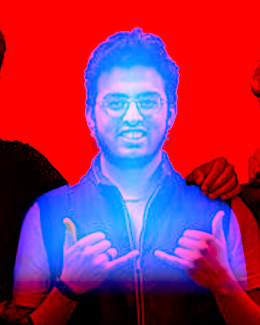
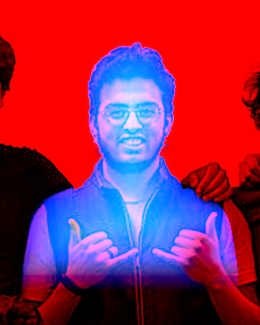
About above Experience, centred timeline dates, floating Ask button and hologram fixes
- Page order now matches the navbar: Home, About, Experience, Projects, Contact
- Experience: each date sits across the line at the vertical middle of its
  card (measured, so it stays put as cards wrap); dots centred on the rail;
  bullet link uses the accent colour
- "Ask AI about me": portalled to <body> so it pins to the screen (the hero's
  transform was pinning it to the hero); shown only after scrolling past the
  assistant, hidden at Contact
- Hologram: visible frame centred on the page; back pane is an even 10px
  stacked offset; portraits re-framed with headroom below the header

diff --git a/frontend/src/components/FloatingAsk.jsx b/frontend/src/components/FloatingAsk.jsx
@@ -1,17 +1,38 @@
 import { useEffect, useState } from "react";
+import { createPortal } from "react-dom";
 
-// Bottom-right shortcut back to the assistant. Shown only while the hero's
-// assistant is scrolled out of view; a click scrolls to it and focuses the input.
+// Bottom-right shortcut back to the assistant.
+// - Rendered into <body> through a portal: the hero has a transform, which
+//   would otherwise pin this "fixed" button to the hero instead of the screen.
+// - Shown only once the visitor has scrolled past the hero's assistant, and
+//   hidden again at the Contact section (it would cover the message bubble).
 export default function FloatingAsk() {
-  const [visible, setVisible] = useState(false);
+  const [pastAssistant, setPastAssistant] = useState(false);
+  const [atContact, setAtContact] = useState(false);
 
   useEffect(() => {
-    const target = document.querySelector(".hero-assistant");
-    if (!target) return;
-    const io = new IntersectionObserver(([e]) => setVisible(!e.isIntersecting), { threshold: 0 });
-    io.observe(target);
-    return () => io.disconnect();
+    const assistant = document.querySelector(".hero-assistant");
+    const contact = document.querySelector("#contacts");
+    const observers = [];
+    if (assistant) {
+      const io = new IntersectionObserver(([e]) => {
+        // Out of view *because we scrolled below it* (its top is above the screen).
+        setPastAssistant(!e.isIntersecting && e.boundingClientRect.top < 0);
+      });
+      io.observe(assistant);
+      observers.push(io);
+    }
+    if (contact) {
+      const io = new IntersectionObserver(([e]) => setAtContact(e.isIntersecting), {
+        rootMargin: "0px 0px -25% 0px", // hide once Contact is properly on screen
+      });
+      io.observe(contact);
+      observers.push(io);
+    }
+    return () => observers.forEach((io) => io.disconnect());
   }, []);
+
+  const visible = pastAssistant && !atContact;
 
   const goToAssistant = () => {
     const box = document.querySelector(".hero-assistant");
@@ -22,7 +43,7 @@ export default function FloatingAsk() {
     setTimeout(() => input?.focus({ preventScroll: true }), reduced ? 0 : 450);
   };
 
-  return (
+  return createPortal(
     <button
       type="button"
       className={`floating-ask${visible ? " is-visible" : ""}`}
@@ -34,6 +55,7 @@ export default function FloatingAsk() {
         <path d="M7.9 20A9 9 0 1 0 4 16.1L2 22Z" />
       </svg>
       Ask AI about me
-    </button>
+    </button>,
+    document.body,
   );
 }

diff --git a/frontend/src/components/StyleSheet.css b/frontend/src/components/StyleSheet.css
@@ -2058,3 +2058,74 @@
 @media (prefers-reduced-motion: reduce) {
   .message-dialog[open] .message-pane { animation: none; }
 }
+
+/* ── Experience: date on the open side of the timeline, at the middle of its card ── */
+.timeline-date {
+  display: none;
+}
+@media (min-width: 769px) {
+  /* --card-mid is set in Experience.jsx: the vertical middle of the card */
+  .timeline-item .timeline-dot,
+  .timeline-item.left .timeline-dot,
+  .timeline-item.right .timeline-dot {
+    top: var(--card-mid, 50%);
+  }
+  /* Centre the dot exactly on the rail (the rail sits on each item's inner edge) */
+  .timeline-item.left .timeline-dot {
+    right: 0;
+    left: auto;
+    transform: translate(50%, -50%);
+  }
+  .timeline-item.right .timeline-dot {
+    left: 0;
+    right: auto;
+    transform: translate(-50%, -50%);
+  }
+  /* Paint containment would clip the date, which sits outside the item's box */
+  .timeline .timeline-item {
+    contain: layout style;
+  }
+  .timeline-date {
+    display: block;
+    position: absolute;
+    top: var(--card-mid, 50%);
+    transform: translateY(-50%);
+    font-family: "Orbitron", sans-serif;
+    font-size: clamp(13px, 1.1vw, 16px);
+    font-weight: 500;
+    letter-spacing: 0.04em;
+    white-space: nowrap;
+    color: var(--accent-glow);
+  }
+  .timeline-item.left .timeline-date {
+    left: calc(100% + clamp(22px, 2.5vw, 34px));
+  }
+  .timeline-item.right .timeline-date {
+    right: calc(100% + clamp(22px, 2.5vw, 34px));
+    text-align: right;
+  }
+  /* Move with the card when it lifts on hover, so they stay level */
+  .timeline-item .timeline-dot,
+  .timeline-item .timeline-date {
+    transition: margin-top 0.3s ease;
+  }
+  .timeline-item:has(.card:hover) .timeline-dot,
+  .timeline-item:has(.card:hover) .timeline-date {
+    margin-top: -8px;
+  }
+  /* The date now lives beside the line, so don't repeat it inside the card */
+  .timeline-item .card-date {
+    display: none;
+  }
+}
+
+/* Links inside experience bullets use the accent, not browser blue */
+.timeline-item .card-bullets a {
+  color: var(--accent-glow);
+  text-decoration: underline;
+  text-decoration-color: color-mix(in srgb, var(--accent-glow) 45%, transparent);
+  text-underline-offset: 3px;
+}
+.timeline-item .card-bullets a:hover {
+  text-decoration-color: var(--accent-glow);
+}

diff --git a/frontend/src/components/Experience.jsx b/frontend/src/components/Experience.jsx
@@ -29,6 +29,27 @@ export default function Experience() {
     return () => observer.disconnect();
   }, []);
 
+  // Lock each card's timeline dot and date to the vertical middle of its
+  // card. Card heights change as text wraps at different widths, so this is
+  // recomputed on resize and once fonts are ready.
+  useEffect(() => {
+    const timeline = timelineRef.current;
+    if (!timeline) return;
+    const align = () => {
+      timeline.querySelectorAll(".timeline-item").forEach((item) => {
+        const card = item.querySelector(".card");
+        if (!card) return;
+        const y = card.offsetTop + card.offsetHeight / 2; // layout only, so animations can't skew it
+        item.style.setProperty("--card-mid", `${Math.round(y)}px`);
+      });
+    };
+    align();
+    const ro = new ResizeObserver(align);
+    ro.observe(timeline);
+    document.fonts?.ready.then(align);
+    return () => ro.disconnect();
+  }, []);
+
   // Open the full project list (the XORBIX work isn't all in the featured five).
   const showXorbixWork = () => window.dispatchEvent(new Event("projects:show-all"));
 
@@ -114,6 +135,8 @@ export default function Experience() {
             <div
               className="timeline-dot"
             />
+            {/* Desktop: the date sits across the line from its card */}
+            <span className="timeline-date">{exp.date}</span>
             <EnhancedCard
               title={exp.title}
               bullets={exp.bullets}

diff --git a/frontend/src/components/HoloPortrait.css b/frontend/src/components/HoloPortrait.css
@@ -61,17 +61,19 @@
   mask-composite: exclude;
   opacity: 0.55;
 }
+/* Back pane: the same size as the front one, offset evenly down and right,
+   so it reads as a deliberate stacked card rather than a stray border. */
 .holo-glass-back {
-  inset: 8% -6% 4% 10%;
-  transform: translate3d(0, 0, 0) skewY(-3deg);
-  opacity: 0.6;
+  inset: 2% 6% 10% -4%;
+  transform: translate3d(10px, 10px, 0);
+  opacity: 0.8;
 }
 .holo-glass-front {
   inset: 2% 6% 10% -4%;
   background: linear-gradient(160deg, rgba(0, 234, 255, 0.05), rgba(139, 92, 246, 0.04));
 }
-.holo:hover .holo-glass-back { transform: translate3d(6px, -4px, 0) skewY(-3deg); }
-.holo:hover .holo-glass-front { transform: translate3d(-4px, 3px, 0); }
+.holo:hover .holo-glass-back { transform: translate3d(13px, 13px, 0); }
+.holo:hover .holo-glass-front { transform: translate3d(-2px, -2px, 0); }
 
 /* Faint scanlines over the whole frame. */
 .holo::after {
@@ -179,6 +181,9 @@
 .hero .holo {
   width: clamp(170px, 27vh, 270px);   /* larger frame: the whole figure fits inside */
   flex: none;
+  /* The visible frame spans -4%..94% of the box (centre at 45%), so shift the
+     box right by 5% to put the frame itself on the page's centre line. */
+  transform: translateX(5%);
   margin: 0 auto clamp(10px, 2vh, 20px);
 }
 @media (max-width: 768px) {

diff --git a/frontend/src/App.jsx b/frontend/src/App.jsx
@@ -59,9 +59,9 @@ function App() {
         <MemoizedNavbar />
         <MemoizedHero />
         <ProofStrip />
+        <MemoizedAbout />
         <Experience />
         <Projects />
-        <MemoizedAbout />
         <MemoizedContacts />
       </div>
     </>
